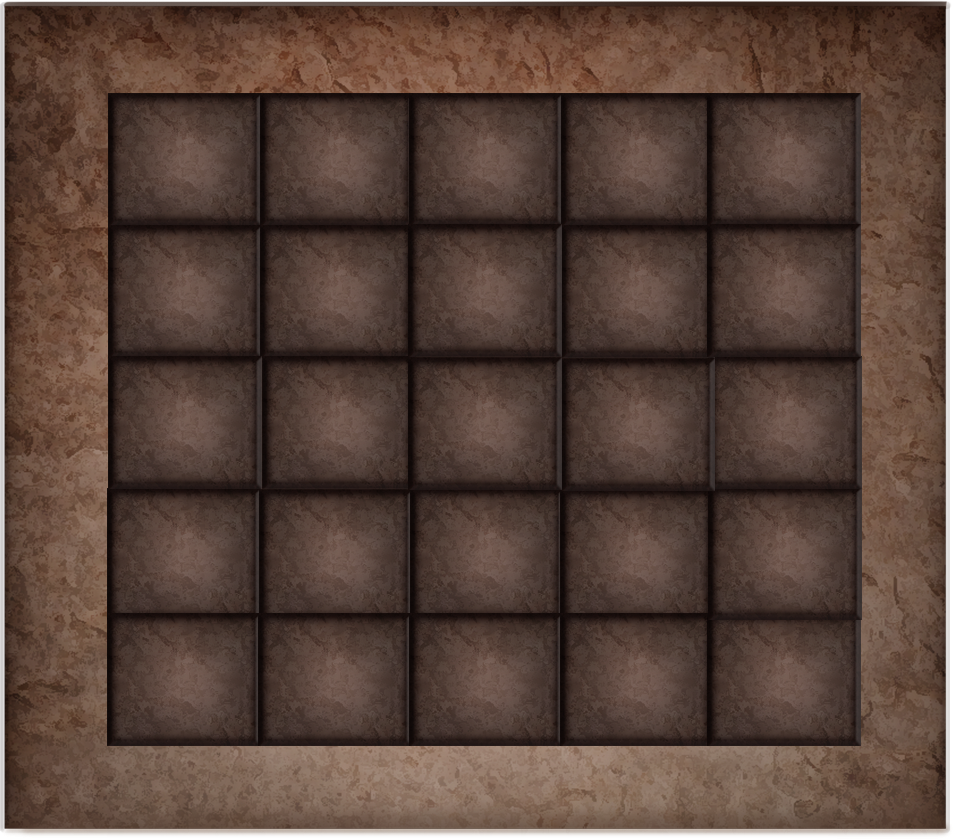
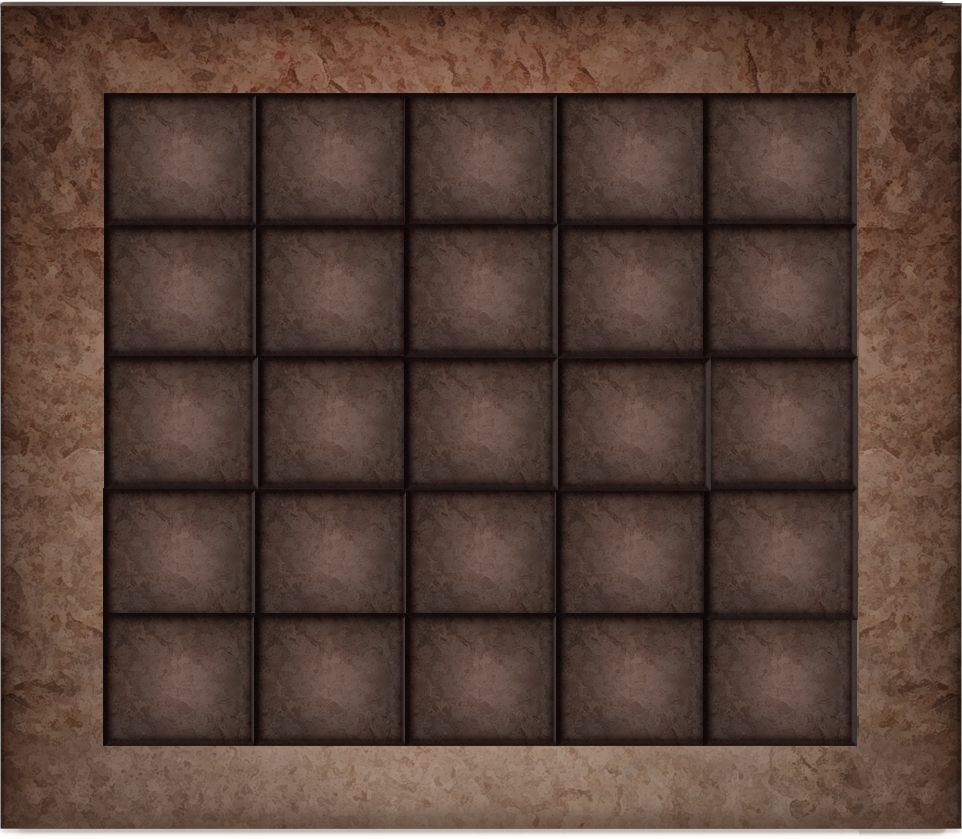
Added Sprite Mask

diff --git a/Assets/SecretDoor/Scripts/ButtonScript.cs b/Assets/SecretDoor/Scripts/ButtonScript.cs
@@ -19,9 +19,6 @@ public class ButtonScript : MonoBehaviour
     Vector2 incrementAmount;        //distance between two cells in the grid
     Vector2 gridSize;               //eg 4x4
 
-    // General Objects
-    [SerializeField] private GameObject skullObjectPrefab;
-    Transform skullParent;
 
     [SerializeField] private Transform buttonDark;  // Number Cover
     [SerializeField] private GameObject buttonEmpty;   // Button Overlay
@@ -33,8 +30,6 @@ public class ButtonScript : MonoBehaviour
         gridCoordintates = buttonData.buttonCoordinates;
 
         GetComponent<SpriteRenderer>().sprite = buttonData.sprite;          // depends on the skullNumber
-
-        skullParent = SecretDoorPuzzleManager.instance.skullParent;
 
         buttonPosition = gridOrigin + incrementAmount * gridCoordintates;
         transform.localPosition = buttonPosition;

diff --git a/Assets/SecretDoor/Scripts/SecretDoor Puzzle Manager.cs b/Assets/SecretDoor/Scripts/SecretDoor Puzzle Manager.cs
@@ -21,7 +21,7 @@ public class SecretDoorPuzzleManager : MonoBehaviour
     [SerializeField] GameObject buttonPrefab;
     [SerializeField] Transform buttonParent;
     
-    public Transform skullParent;
+    public Transform BGParent;
 
     [SerializeField] Sprite buttonOne;
     [SerializeField] Sprite buttonTwo;
@@ -69,7 +69,7 @@ public class SecretDoorPuzzleManager : MonoBehaviour
         incrementAmount = data.incrementAmount;
         gridOrigin = data.gridOrigin;
 
-        currentBackground = Instantiate(data.background);
+        currentBackground = Instantiate(data.background, BGParent);
 
         for (int i = 0; i < data.barricadeCoordinates.Count; i++)
         {
